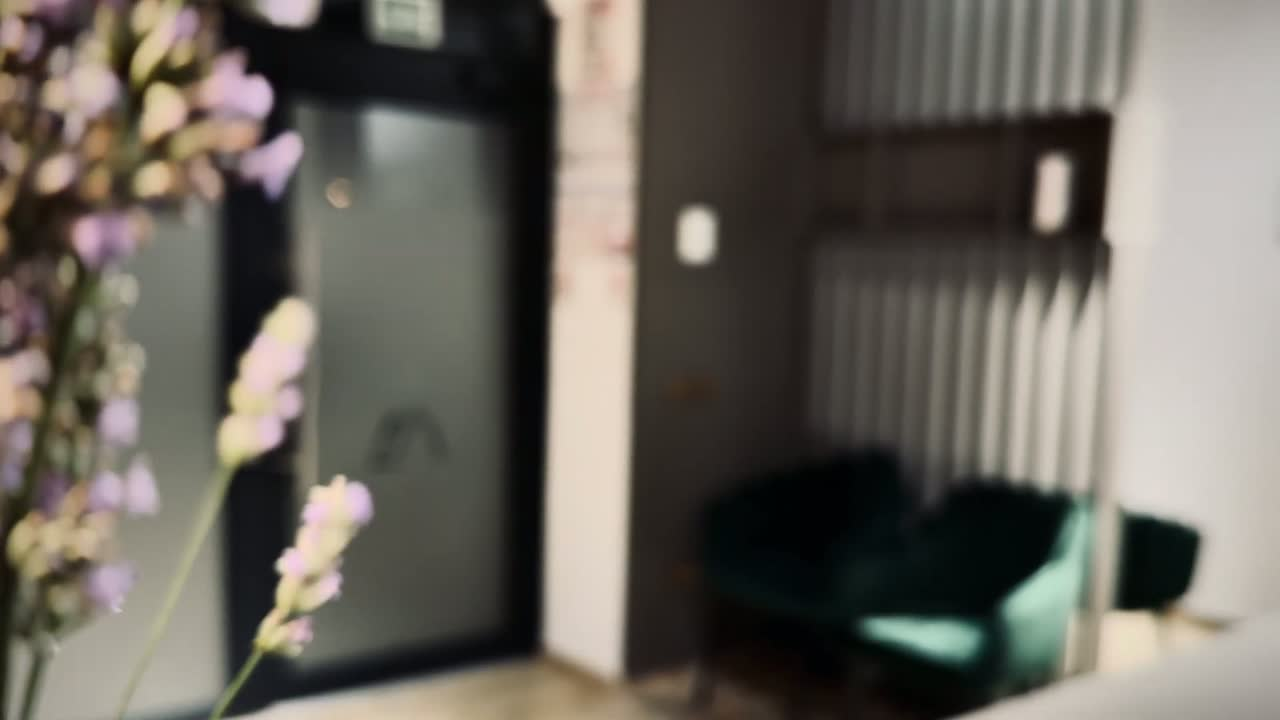
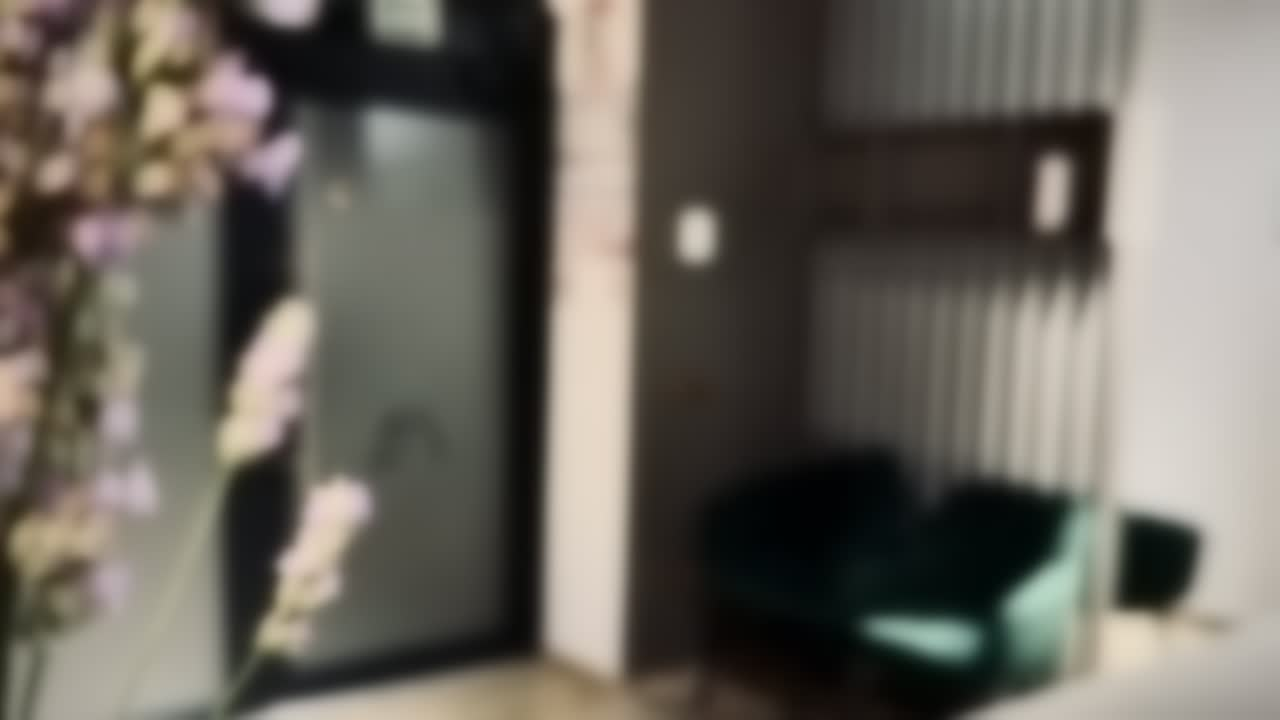
Bake hero blur into video/poster to fix iOS jank
Running a full-screen CSS blur() on a playing <video> forces Safari to
re-run the blur shader every frame, saturating the compositor and making
the whole page (scroll, reveal animations, other elements) lag on iPhone.
Pre-blur the video and poster with ffmpeg and drop the runtime blur, so
the visual is identical with no per-frame cost. Video is also smaller
(2.7MB -> 2.0MB).

diff --git a/src/components/home/hero.tsx b/src/components/home/hero.tsx
@@ -92,7 +92,7 @@ export function Hero() {
               aria-hidden
               onLoadedData={() => setVideoReady(true)}
               onCanPlay={() => setVideoReady(true)}
-              className={`absolute inset-0 size-full scale-110 object-cover blur-[5px] transition-opacity duration-700 ${
+              className={`absolute inset-0 size-full scale-105 object-cover transition-opacity duration-700 ${
                 videoReady ? "opacity-100" : "opacity-0"
               }`}
             >